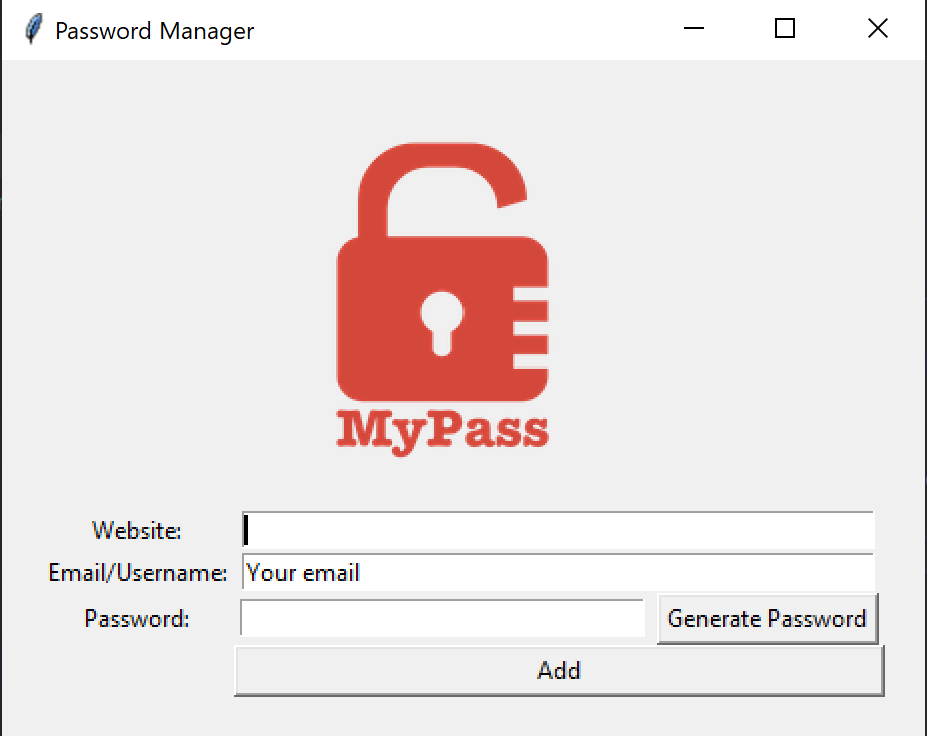
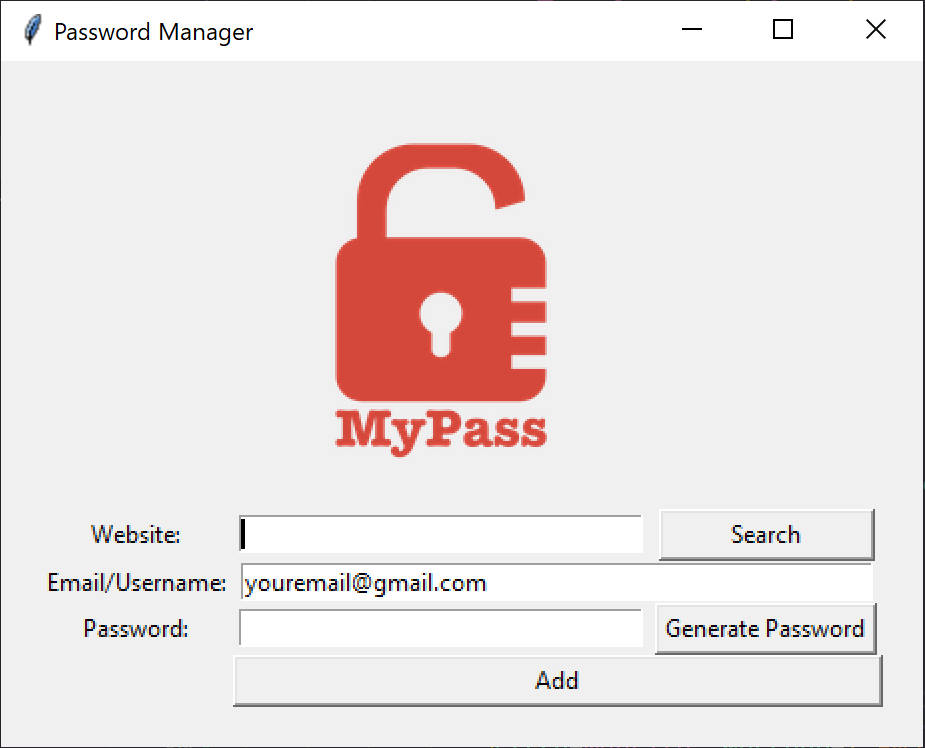
update readme/search function

diff --git a/Day-29/main.py b/Day-29/main.py
@@ -2,6 +2,7 @@ from tkinter import *
 from tkinter import messagebox
 from random import choice, randint, shuffle
 import pyperclip
+import json
 
 # ---------------------------- PASSWORD GENERATOR ------------------------------- #
 
@@ -32,20 +33,54 @@ def save():
     website = website_entry.get()
     email = email_entry.get()
     password = password_entry.get()
+    new_data = {
+        website: {
+            'email': email,
+            "password": password
+        }
+    }
 
     if len(website) == 0 or len(password) == 0:
         messagebox.showinfo(
             title="OPPS", message="Please make sure you haven't left any fields empty")
     else:
-        # MessageBox
-        is_ok = messagebox.askokcancel(
-            title=website, message=f"This are the details entered \nEmail: {email} \nPassword: {password} \nIs it okay to save?")
+        try:
+            with open("data.json", "r") as data_file:
+                # Reading old data
+                data = json.load(data_file)
+        except FileNotFoundError:
+            with open('data.json', 'w') as data_file:
+                json.dump(new_data, data_file, indent=4)
+        else:
+            # Updating old data
+            data.update(new_data)
 
-        if is_ok:
-            with open("date.txt", "a") as data_file:
-                data_file.write(f"{website} | {email} | {password} \n")
-                website_entry.delete(0, END)
-                password_entry.delete(0, END)
+            with open("data.json", "w") as data_file:
+                # Saving updated data
+                json.dump(data, data_file, indent=4)
+        finally:
+            website_entry.delete(0, END)
+            password_entry.delete(0, END)
+
+# ---------------------------- Find Password ------------------------------- #
+
+
+def find_password():
+    website = website_entry.get()
+    try:
+        with open('data.json') as data_file:
+            data = json.load(data_file)
+    except FileNotFoundError:
+        messagebox.showinfo(title="Error", message="No Data File Found.")
+    else:
+        if website in data:
+            email = data[website]["email"]
+            password = data[website]['password']
+            messagebox.showinfo(
+                title=website, message=f"Email: {email}\nPassword: {password}")
+        else:
+            messagebox.showinfo(
+                title="Error", message=f"No details for {website} exists.")
 
 
 # ---------------------------- UI SETUP ------------------------------- #
@@ -71,13 +106,13 @@ password_label = Label(text="Password:")
 password_label.grid(row=3, column=0)
 
 # Entries
-website_entry = Entry(width=52)
-website_entry.grid(row=1, column=1, columnspan=2)
+website_entry = Entry(width=33)
+website_entry.grid(row=1, column=1)
 website_entry.focus()
 
 email_entry = Entry(width=52)
 email_entry.grid(row=2, column=1, columnspan=2)
-email_entry.insert(END, "Your email")
+email_entry.insert(END, "youremail@gmail.com")
 
 password_entry = Entry(width=33)
 password_entry.grid(row=3, column=1)
@@ -88,5 +123,8 @@ generate_button.grid(row=3, column=2)
 
 add_button = Button(text="Add", width=45, command=save)
 add_button.grid(row=4, column=1, columnspan=2)
+
+search_button = Button(text="Search", width=14, command=find_password)
+search_button.grid(row=1, column=2)
 
 window.mainloop()

diff --git a/Day-29/README.md b/Day-29/README.md
@@ -7,10 +7,9 @@ Password Manager is a simple GUI application built using the Tkinter library in 
 ## Features
 
 - Password generation with a mix of letters (uppercase and lowercase), numbers, and symbols.
-- Secure storage of website, email, and password details.
+- Store passwords along with corresponding website URLs and email addresses.
 - User-friendly UI with a logo and input fields.
 - Option to generate a password or input a custom one.
-- Confirmation dialog before saving credentials.
 
 ## Prerequisites
 
@@ -33,14 +32,27 @@ To run this application, you need to have Python installed on your system. The T
 2. Optionally, modify the default email/username in the "Email/Username" field.
 3. Click the "Generate Password" button to generate a strong password. You can also input a custom password if desired.
 4. Click the "Add" button to save the website, email, and password details.
-5. A confirmation dialog will appear, showing the entered details. Click "OK" to save the data.
-6. Password saved to your clipboard.
-7. The saved data will be stored in the `data.txt` file.
+5. Password saved to your clipboard.
+6. To retrieve a password, enter the website URL and click the "Search" button.
+7. Your password will be displayed in a popup message.
+8. The saved data will be stored in the `data.json` file.
 
 ## Customization
 
 - Modify the lists of letters, numbers, and symbols in the `generate_password` function to adjust the password complexity.
 - You can customize the `logo.png` image to match your preferences.
+
+## Data Storage
+
+The passwords and associated data are stored in the `data.json` file. Make sure to keep this file secure and backed up.
+
+## Note
+
+1. This application is for personal use and is not recommended for managing critical passwords.
+2. Make sure to replace the example email in the email entry field with your own email address.
+3. The logo image should be placed in the same directory as the script with the name "logo.png".
+
+Feel free to customize and extend this password manager according to your needs.
 
 ## Security Note
 
